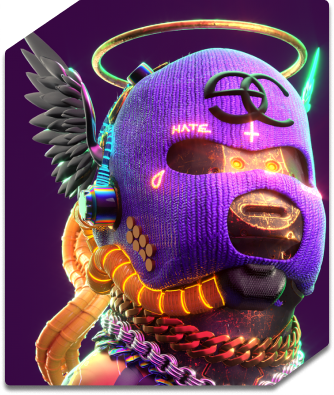
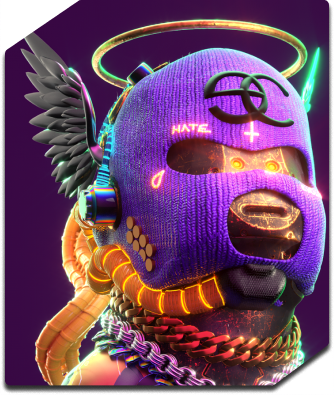
fix: hero for mobile

Changed region(s): [[0.0, 0.1519, 0.8383, 1.0], [0.8383, 0.0304, 1.0, 0.9722]]

diff --git a/css/style.css b/css/style.css
@@ -842,21 +842,22 @@ h1 {
   .promo-banner {
     margin-top: 55.6px;
     margin-left: 0;
-    min-width: 400.5px;
-    height: 174.79px; }
+    width: 334px;
+    height: 395px; }
 
   .hero-descr {
     right: 25.8px;
     bottom: -40.3px;
     background: url("../assets/hero/hero-promo-bg-modile.png") no-repeat;
-    padding: 35.5px 30.5px 0 21.4px; }
+    padding: 33.85px 30.5px 0 22.05px;
+    transform: translate(-1.2px, 1.2px); }
 
   .img-banner {
     width: 100%;
     height: 100%;
     background: url("../assets/hero/hero-promo-mobile.png") no-repeat;
     margin: 2px 0 0 0;
-    transform: translate(33.3px, 1px); }
+    transform: translate(35.05px, 1px); }
 
   .hero-left-block-title {
     font-size: 17.05px;
@@ -865,23 +866,26 @@ h1 {
   .hero-left-block .hero-descr-avatar {
     width: 27.71px;
     height: 27.71px;
-    transform: translate(1px, 0px); }
+    transform: translate(0.5px, 0.3px); }
 
   .hero-left-block .email {
     margin-top: 8.6px; }
     .hero-left-block .email span {
       font-size: 14.92px;
-      margin: 0 -0.8px 0.8px 2.2px; }
+      margin: -1.15px -1.3px 0px 2.25px; }
   .hero-left-block .price {
     margin-top: 20px;
     margin-bottom: 6.3px; }
 
   .hero-right-block {
     width: 122px; }
+    .hero-right-block .hero-descr-checked {
+      transform: translate(5.7px, 0.5px); }
 
   .right-block-title {
     margin: 2.8px 0 5px 13.5px;
-    font-size: 10.66px; }
+    font-size: 10.66px;
+    transform: translate(-0.9px, 1.4px); }
 
   .time__item .name {
     margin-top: 2.6px;
@@ -896,8 +900,8 @@ h1 {
     margin-right: 2px; }
 
   .btn-little-promo div {
-    font-size: 17.69px;
-    transform: translate(-1.1px, 0.2px); }
+    font-size: 17.0526px;
+    transform: translate(0.1px, 0.2px); }
   .btn-little-promo:after {
     top: 7.2px;
     right: 9.5px;
@@ -906,7 +910,7 @@ h1 {
 
   .hero-left-block .price {
     font-size: 10.66px;
-    transform: translate(1.3px, 0.8px); }
+    transform: translate(0.65px, 0.55px); }
 
   .hero-left-block .eth-dollars {
     font-size: 10.66px; }
@@ -920,8 +924,8 @@ h1 {
   .btn-little-wrapper {
     margin-top: 28.6px;
     width: 119.1px;
-    height: 39.8px;
-    transform: translate(2.8px, 0px);
+    height: 40.15px;
+    transform: translate(3px, 0.1px);
     border-radius: 4.03px; }
 
   .hero-digit_first {
@@ -946,14 +950,13 @@ h1 {
     padding: 15px 0 0 0; }
 
   .promo-banner {
-    min-width: 300px; }
+    width: 300px; }
 
   .img-banner {
-    transform: translate(0px, 0px); }
+    transform: translate(32.2px, 0px); }
 
   .hero-descr {
-    width: 300px;
-    right: -3px;
+    right: 27px;
     padding: 35.5px 15px 0 10px; } }
 .explore {
   display: none;

diff --git a/scss/components/_hero-img.scss b/scss/components/_hero-img.scss
@@ -183,21 +183,22 @@
   .promo-banner {
     margin-top: 55.6px;
     margin-left: 0;
-    min-width: 400.5px;
-    height: 174.79px
+    width: 334px;
+    height: 395px
   }
   .hero-descr {
     right: 25.8px;
     bottom: -40.3px;
     background: url("../assets/hero/hero-promo-bg-modile.png") no-repeat;
-    padding: 35.5px 30.5px 0 21.4px;
+    padding: 33.85px 30.5px 0 22.05px;
+    transform: translate(-1.2px, 1.2px);
   }
   .img-banner {
     width: 100%;
     height: 100%;
     background: url("../assets/hero/hero-promo-mobile.png") no-repeat;
     margin: 2px 0 0 0;
-    transform: translate(33.3px, 1px);
+    transform: translate(35.05px, 1px);
   }
   .hero-left-block-title {
     font-size: 17.05px;
@@ -206,7 +207,7 @@
   .hero-left-block .hero-descr-avatar {
     width: 27.71px;
     height: 27.71px;
-    transform: translate(1px, 0px);
+    transform: translate(0.5px, 0.3px);
   }
 
   .hero-left-block {
@@ -214,7 +215,7 @@
       margin-top: 8.6px;
       span {
         font-size: 14.92px;
-        margin: 0 -0.8px 0.8px 2.2px;
+        margin: -1.15px -1.3px 0px 2.25px;
       }
     }
     .price {
@@ -224,10 +225,14 @@
   }
   .hero-right-block {
     width: 122px;
+    .hero-descr-checked {
+      transform: translate(5.7px, 0.5px);
+    }
   }
   .right-block-title {
     margin: 2.8px 0 5px 13.5px;
     font-size: 10.66px;
+    transform: translate(-0.9px, 1.4px);
   }
   .time__item .name {
     margin-top: 2.6px;
@@ -244,8 +249,8 @@
 
   .btn-little-promo {
     div {
-      font-size: 17.69px;
-      transform: translate(-1.1px, 0.2px);
+      font-size: 17.0526px;
+      transform: translate(0.1px, 0.2px);
     }
     &:after {
       top: 7.2px;
@@ -256,7 +261,7 @@
   }
   .hero-left-block .price {
     font-size: 10.66px;
-    transform: translate(1.3px, 0.8px);
+    transform: translate(0.65px, 0.55px);
   }
   .hero-left-block .eth-dollars {
     font-size: 10.66px;
@@ -271,8 +276,8 @@
   .btn-little-wrapper {
     margin-top: 28.6px;
     width: 119.1px;
-    height: 39.8px;
-    transform: translate(2.8px, 0px);
+    height: 40.15px;
+    transform: translate(3px, 0.1px);
     border-radius: 4.03px;
   }
 
@@ -301,14 +306,13 @@
     padding: 15px 0 0 0;
   }
   .promo-banner {
-    min-width: 300px;
+    width: 300px;
   }
   .img-banner {
-    transform: translate(0px, 0px);
+    transform: translate(32.2px, 0px);
   }
   .hero-descr {
-    width: 300px;
-    right: -3px;
+    right: 27px;
     padding: 35.5px 15px 0 10px;
   }
 }
